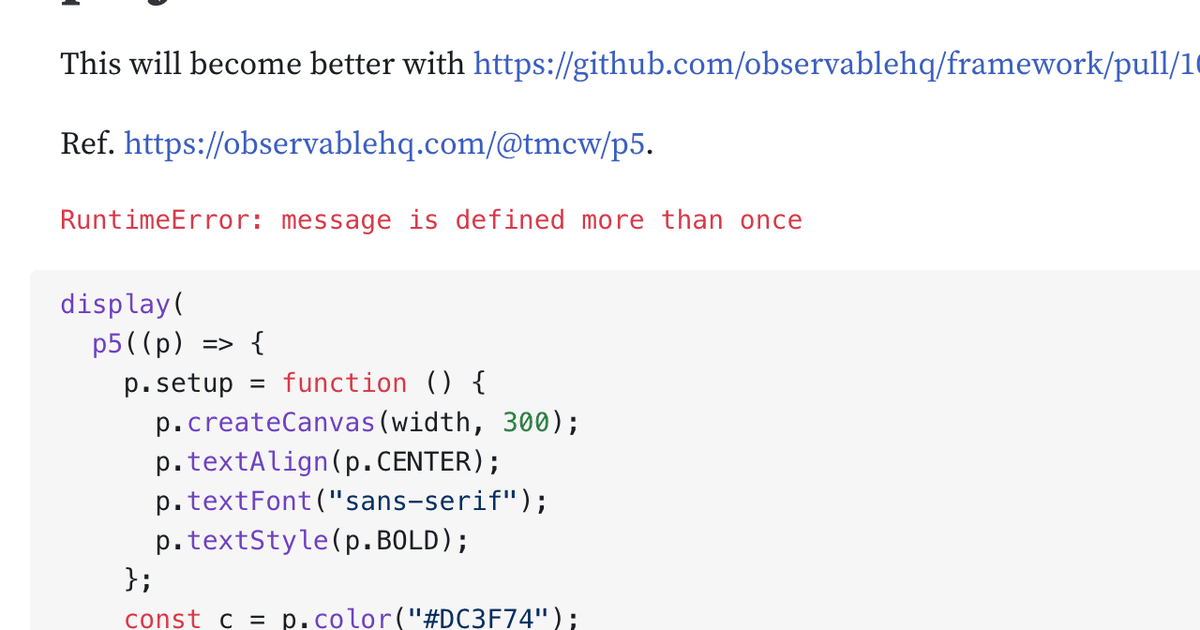
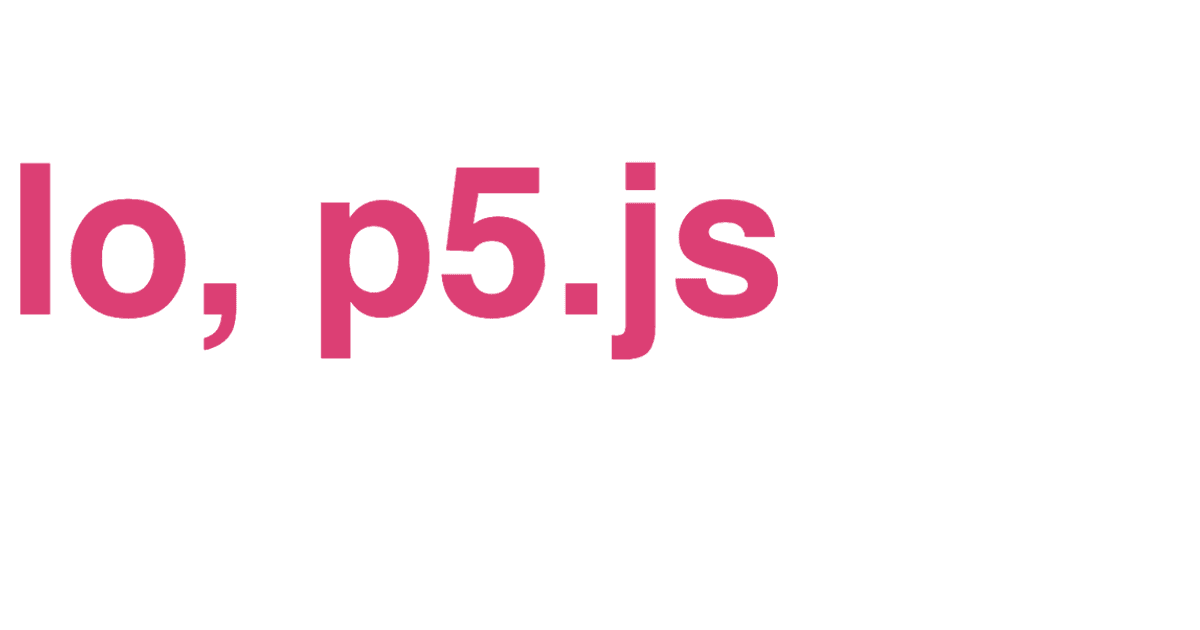
fix p5

diff --git a/src/party/p5.md b/src/party/p5.md
@@ -104,10 +104,6 @@ display(
 );
 ```
 
-```js
-const message = view(Inputs.text({value: "Hello, p5.js", label: "Your message to the world"}));
-```
-
 ```js echo
 display(
   p5((p) => {
